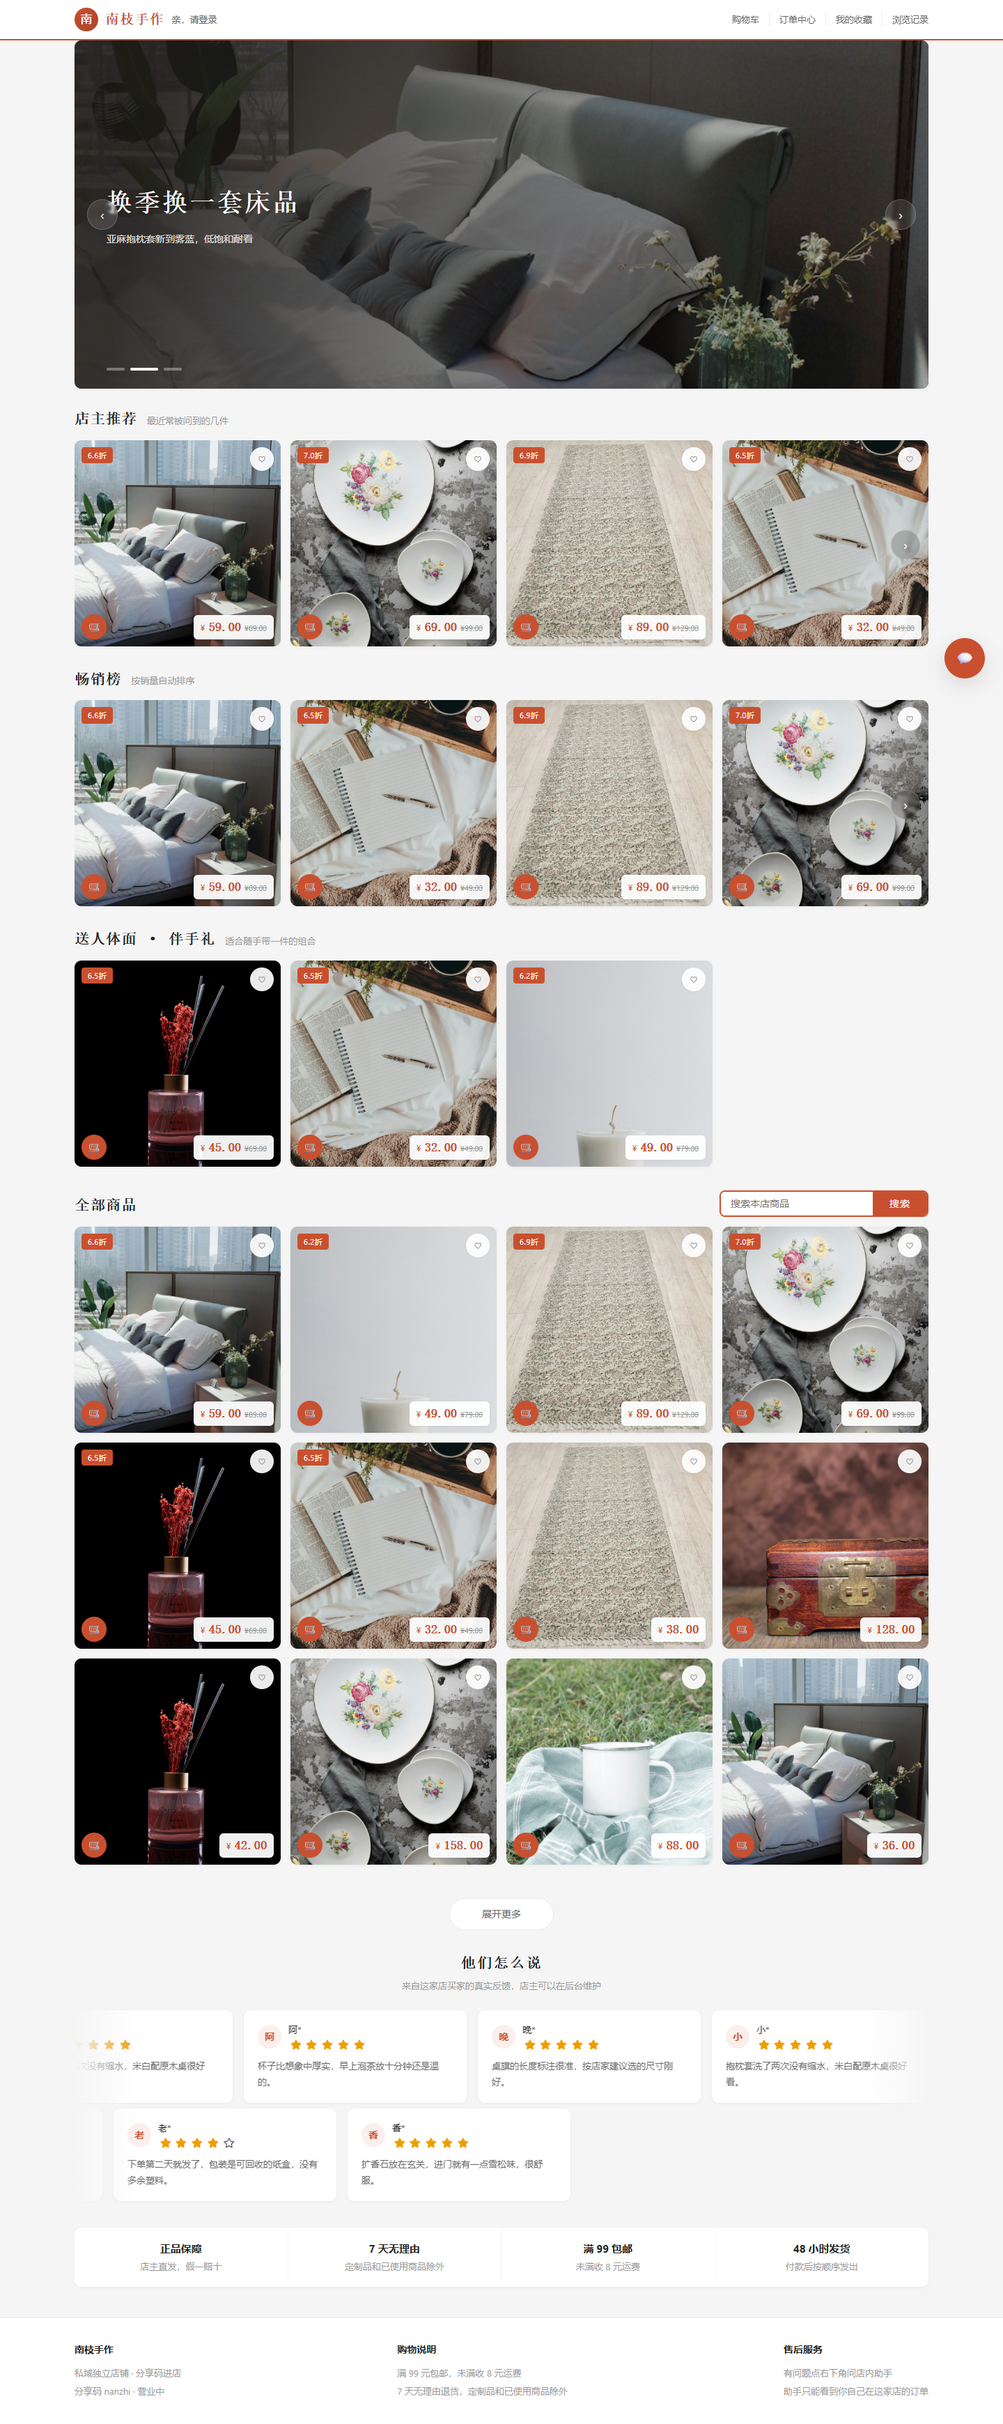
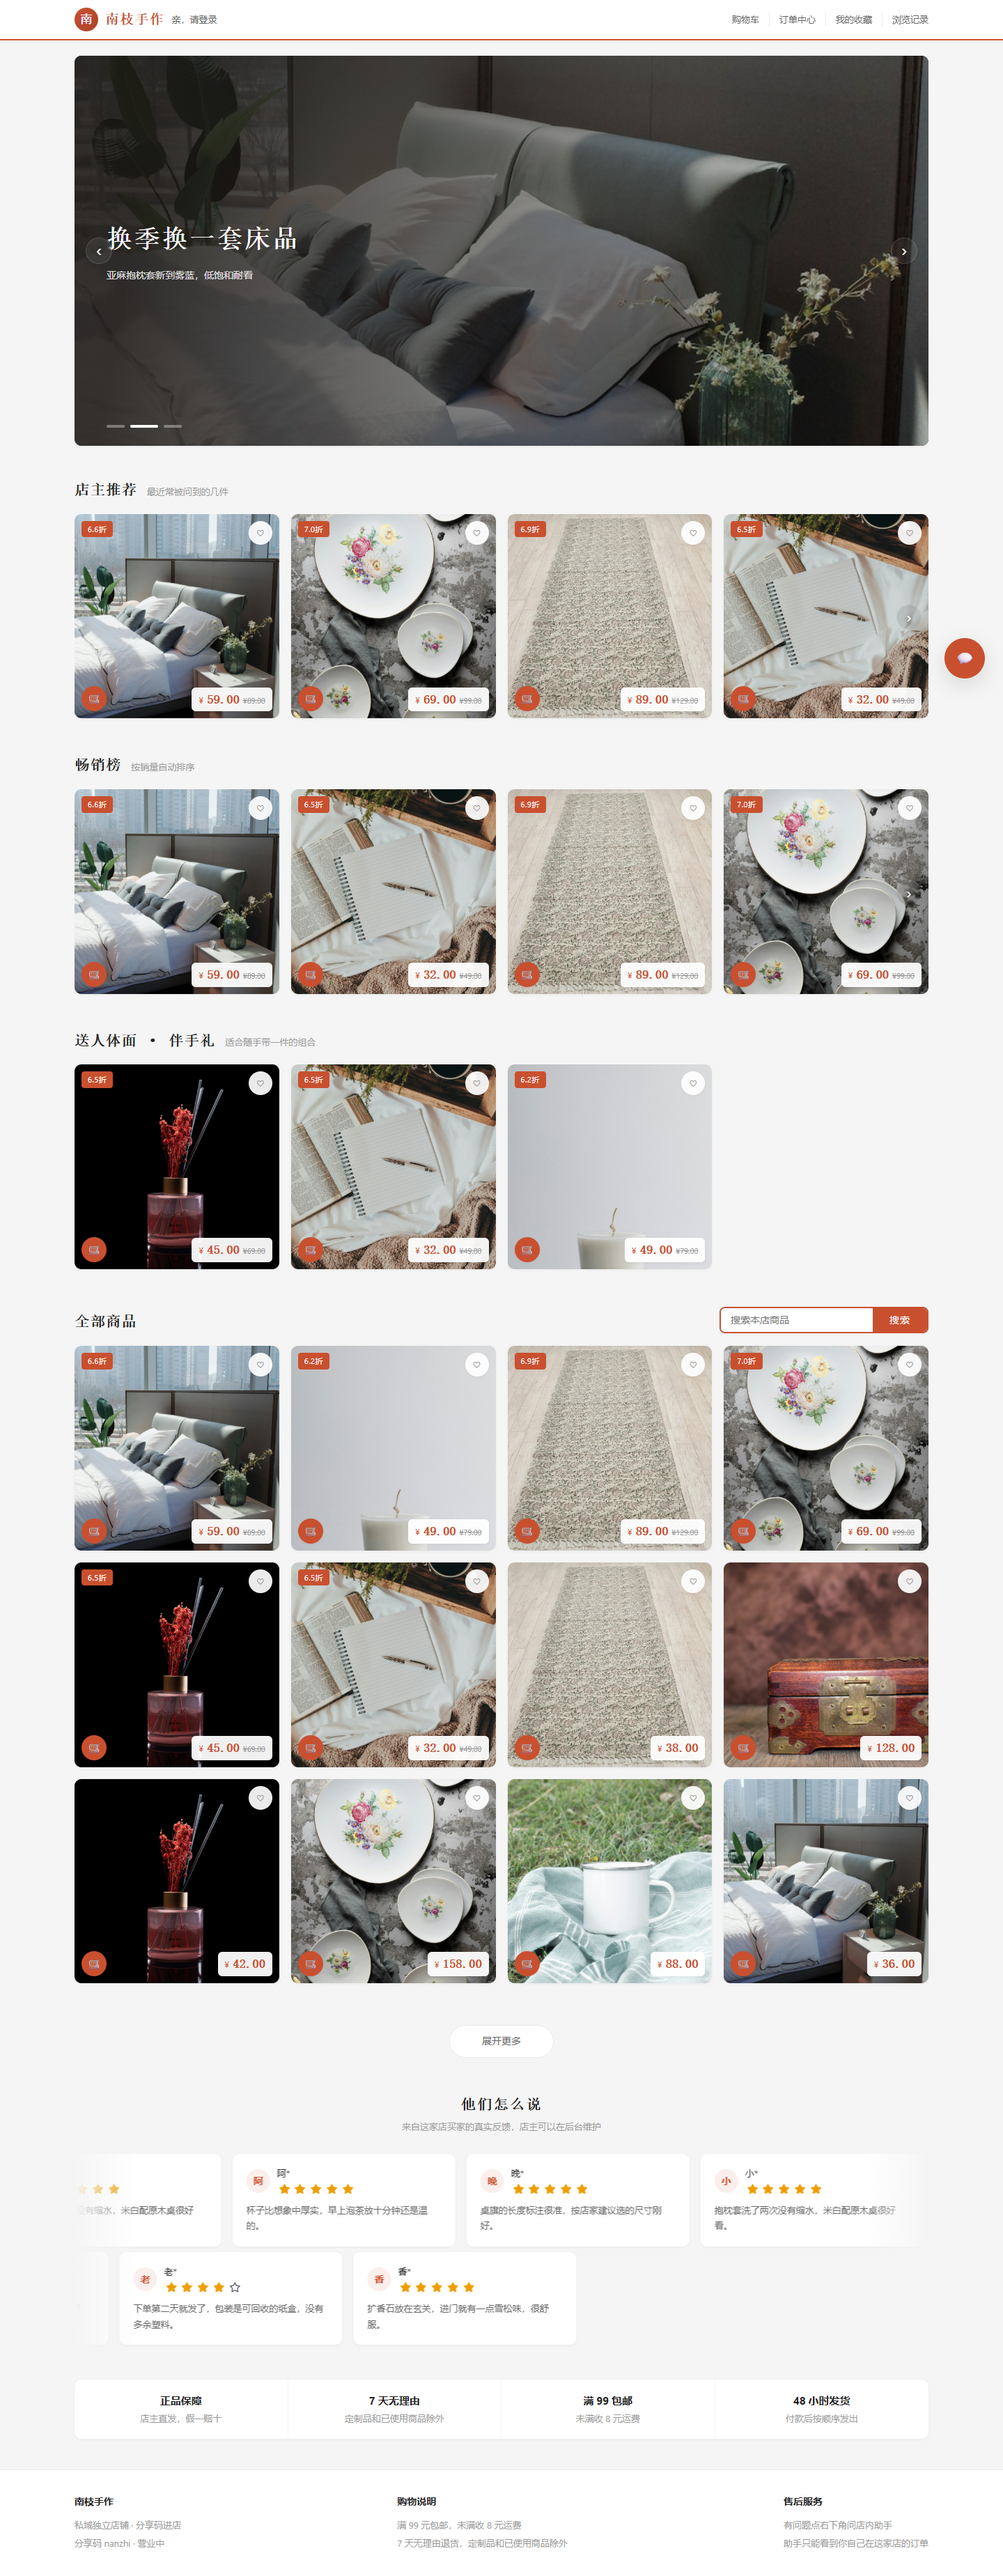
横屏再放大并留上方空白，箭头符号放大、圆钮缩小调透，行间距拉开
轮播 500→560px 并加 22px 上边距；箭头圆钮 44/42→38/36px，符号 20→27/25px，底色不透明度降到 0.07/0.1；栏间距 26→46px，商品格 gap 14→17px。

diff --git a/web/mall.css b/web/mall.css
@@ -146,7 +146,7 @@ p { margin: 0; }
 /* 服务承诺条 */
 .promises {
   display: grid; grid-template-columns: repeat(4, 1fr); background: #fff;
-  border-radius: var(--radius); box-shadow: var(--shadow); margin: 34px 0 0; overflow: hidden;
+  border-radius: var(--radius); box-shadow: var(--shadow); margin: 46px 0 0; overflow: hidden;
 }
 .promises div {
   padding: 18px 16px; text-align: center; border-right: 1px solid var(--line-2);
@@ -180,7 +180,7 @@ p { margin: 0; }
 .sorts button.on { background: var(--primary); border-color: var(--primary); color: #fff; font-weight: 600; }
 
 /* ================= 商品卡 ================= */
-.grid { display: grid; grid-template-columns: repeat(4, 1fr); gap: 14px; padding-bottom: 30px; }
+.grid { display: grid; grid-template-columns: repeat(4, 1fr); gap: 17px; padding-bottom: 36px; }
 /* 商品卡只在图片上叠加信息，不再有下方文字区 */
 .pcard {
   background: #fff; border-radius: var(--radius); overflow: hidden; box-shadow: var(--shadow);
@@ -473,7 +473,7 @@ wa-rating.stars-widget::part(rating) { gap: 1px; }
 /* ================= 首页：轮播主视觉 ================= */
 .hero {
   position: relative; border-radius: var(--radius); overflow: hidden; background: #2a2521;
-  height: 500px; box-shadow: var(--shadow);
+  height: 560px; box-shadow: var(--shadow); margin: 22px 0 0;
 }
 .hero .slide {
   position: absolute; inset: 0; opacity: 0; transition: opacity 0.6s ease;
@@ -492,21 +492,23 @@ wa-rating.stars-widget::part(rating) { gap: 1px; }
 }
 .hero .caption h1 { font-size: 36px; letter-spacing: 3px; font-family: var(--serif); }
 .hero .caption p { color: rgba(255, 255, 255, 0.84); margin-top: 12px; }
+/* 圆钮做小、符号放大，底色很淡，尽量不挡后面的图 */
 .hero .nav {
-  position: absolute; top: 50%; transform: translateY(-50%); width: 44px; height: 44px;
-  border-radius: 50%; border: 1px solid rgba(255, 255, 255, 0.18);
-  background: rgba(255, 255, 255, 0.12); color: rgba(255, 255, 255, 0.9);
-  font-size: 20px; display: grid; place-items: center; backdrop-filter: blur(2px);
-  text-shadow: 0 1px 4px rgba(0, 0, 0, 0.4);
+  position: absolute; top: 50%; transform: translateY(-50%); width: 38px; height: 38px;
+  border-radius: 50%; border: 1px solid rgba(255, 255, 255, 0.12);
+  background: rgba(255, 255, 255, 0.07); color: rgba(255, 255, 255, 0.94);
+  font-size: 27px; line-height: 1; padding-bottom: 4px;
+  display: grid; place-items: center; backdrop-filter: blur(1px);
+  text-shadow: 0 1px 5px rgba(0, 0, 0, 0.55);
   transition: background 0.2s, border-color 0.2s, color 0.2s;
 }
 .hero .nav:hover {
-  background: rgba(255, 255, 255, 0.24);
-  border-color: rgba(255, 255, 255, 0.32);
+  background: rgba(255, 255, 255, 0.16);
+  border-color: rgba(255, 255, 255, 0.22);
   color: #fff;
 }
-.hero .nav.prev { left: 18px; }
-.hero .nav.next { right: 18px; }
+.hero .nav.prev { left: 16px; }
+.hero .nav.next { right: 16px; }
 .hero .dots {
   position: absolute; left: 46px; bottom: 26px; display: flex; gap: 8px;
 }
@@ -517,8 +519,8 @@ wa-rating.stars-widget::part(rating) { gap: 1px; }
 .hero .dots button.on { background: #fff; width: 40px; }
 
 /* ================= 首页：横向商品位 ================= */
-.row-sec { margin-top: 26px; }
-.row-head { display: flex; align-items: flex-end; gap: 14px; margin-bottom: 14px; }
+.row-sec { margin-top: 46px; }
+.row-head { display: flex; align-items: flex-end; gap: 14px; margin-bottom: 18px; }
 .row-head h2 { font-size: 21px; letter-spacing: 1px; font-family: var(--serif); }
 .row-head .sub { color: var(--muted); font-size: 13px; padding-bottom: 3px; }
 .row-head .spacer { flex: 1; }
@@ -526,32 +528,33 @@ wa-rating.stars-widget::part(rating) { gap: 1px; }
 /* 左右箭头浮在图片两侧、垂直居中，和轮播主视觉一致 */
 .rail { position: relative; }
 .rail-nav {
-  position: absolute; top: 50%; transform: translateY(-50%); width: 42px; height: 42px;
-  border-radius: 50%; border: 1px solid rgba(255, 255, 255, 0.16);
-  background: rgba(30, 26, 23, 0.22); color: rgba(255, 255, 255, 0.92);
-  font-size: 20px; display: grid; place-items: center; z-index: 3;
-  backdrop-filter: blur(2px); text-shadow: 0 1px 4px rgba(0, 0, 0, 0.4);
+  position: absolute; top: 50%; transform: translateY(-50%); width: 36px; height: 36px;
+  border-radius: 50%; border: 1px solid rgba(255, 255, 255, 0.12);
+  background: rgba(28, 24, 21, 0.1); color: rgba(255, 255, 255, 0.95);
+  font-size: 25px; line-height: 1; padding-bottom: 4px;
+  display: grid; place-items: center; z-index: 3;
+  backdrop-filter: blur(1px); text-shadow: 0 1px 5px rgba(0, 0, 0, 0.55);
   transition: background 0.2s, border-color 0.2s, opacity 0.2s;
 }
 .rail-nav:hover:not(:disabled) {
-  background: rgba(30, 26, 23, 0.4);
-  border-color: rgba(255, 255, 255, 0.28);
+  background: rgba(28, 24, 21, 0.24);
+  border-color: rgba(255, 255, 255, 0.2);
 }
 .rail-nav:disabled { opacity: 0; pointer-events: none; }
-.rail-nav.prev { left: 12px; }
-.rail-nav.next { right: 12px; }
+.rail-nav.prev { left: 10px; }
+.rail-nav.next { right: 10px; }
 
 .track {
-  display: grid; grid-auto-flow: column; grid-auto-columns: calc((100% - 42px) / 4);
-  gap: 14px; overflow-x: auto; scroll-snap-type: x mandatory;
+  display: grid; grid-auto-flow: column; grid-auto-columns: calc((100% - 51px) / 4);
+  gap: 17px; overflow-x: auto; scroll-snap-type: x mandatory;
   scrollbar-width: none; padding-bottom: 4px;
 }
 .track::-webkit-scrollbar { display: none; }
 .track > * { scroll-snap-align: start; }
 
 /* ================= 首页：全部商品 + 展开 ================= */
-.all-sec { margin-top: 30px; }
-.all-foot { text-align: center; margin: 18px 0 4px; }
+.all-sec { margin-top: 50px; }
+.all-foot { text-align: center; margin: 24px 0 4px; }
 .expand {
   border: 1px solid var(--line); background: #fff; border-radius: 24px;
   padding: 11px 46px; font-size: 14px; color: var(--ink-2); transition: all 0.18s;
@@ -560,8 +563,8 @@ wa-rating.stars-widget::part(rating) { gap: 1px; }
 .expand[disabled] { opacity: 0.5; cursor: default; }
 
 /* ================= 首页：用户评价流动 ================= */
-.wall { margin-top: 30px; overflow: hidden; }
-.wall-head { text-align: center; margin-bottom: 20px; }
+.wall { margin-top: 50px; overflow: hidden; }
+.wall-head { text-align: center; margin-bottom: 24px; }
 .wall-head h2 { font-size: 21px; letter-spacing: 2px; font-family: var(--serif); }
 .wall-head p { color: var(--muted); font-size: 13px; margin-top: 6px; }
 .marquee { position: relative; overflow: hidden; padding: 4px 0; }
@@ -925,7 +928,7 @@ wa-dialog .field input:focus { border-color: var(--primary); }
   .cat-side h3 { display: none; }
   .cat-side button { width: auto; white-space: nowrap; border-left: 0; border-bottom: 3px solid transparent; }
   .cat-side button.on { border-left: 0; border-bottom-color: var(--primary); }
-  .track { grid-auto-columns: calc((100% - 28px) / 3); }
+  .track { grid-auto-columns: calc((100% - 34px) / 3); }
 }
 @media (max-width: 900px) {
   .detail, .checkout { grid-template-columns: 1fr; }
@@ -936,10 +939,11 @@ wa-dialog .field input:focus { border-color: var(--primary); }
   .side .side-brand, .side .side-user { display: none; }
   .side a, .side button.side-item { width: auto; white-space: nowrap; border-left: 0; border-bottom: 3px solid transparent; }
   .side a.on { border-left: 0; border-bottom-color: var(--primary); }
-  .hero { height: 380px; }
+  .hero { height: 420px; }
   .hero .caption { left: 26px; right: 26px; max-width: none; }
   .hero .caption h1 { font-size: 27px; }
   .hero .dots { left: 26px; }
+  .row-sec, .all-sec, .wall, .promises { margin-top: 36px; }
 }
 @media (max-width: 720px) {
   .grid { grid-template-columns: repeat(2, 1fr); }
@@ -955,12 +959,14 @@ wa-dialog .field input:focus { border-color: var(--primary); }
   .gallery .thumbs { flex-direction: row; }
   .chat { right: 12px; left: 12px; bottom: 12px; width: auto; }
   .footer .wrap { flex-direction: column; }
-  .hero { height: 280px; }
+  .hero { height: 300px; }
   .hero .caption h1 { font-size: 22px; letter-spacing: 1px; }
   .hero .caption p { font-size: 13px; }
-  .hero .nav { width: 36px; height: 36px; font-size: 16px; }
-  .track { grid-auto-columns: calc((100% - 14px) / 2); }
+  .hero .nav { width: 32px; height: 32px; font-size: 22px; }
+  .rail-nav { width: 30px; height: 30px; font-size: 21px; }
+  .track { grid-auto-columns: calc((100% - 17px) / 2); }
   .row-head h2 { font-size: 18px; }
+  .row-sec, .all-sec, .wall, .promises { margin-top: 30px; }
   .quote { width: 260px; }
   /* 购买按钮在窄屏排不下，让它们换行并平分宽度 */
   .actions button { flex: 1 1 46%; }

diff --git a/README.md b/README.md
@@ -13,11 +13,11 @@
 
 首页从上到下：轮播主视觉 → 店主推荐 → 畅销榜 → 自定义栏目 → 全部商品 → 用户评价 → 售后保障。
 
-**轮播主视觉**：横屏大图，宽度和下面的商品行一致，高度 500px。点图直接进对应的商品详情，左右箭头浮在图片两侧、垂直居中，也能点下面的小横条或等它自动走。
+**轮播主视觉**：横屏大图，宽度和下面的商品行一致，高度 560px，上方留了 22px 空白。点图直接进对应的商品详情，左右箭头浮在图片两侧、垂直居中（圆钮 38px、符号 27px、底色只有 7% 不透明度），也能点下面的小横条或等它自动走。
 
 ![轮播第二张](docs/screenshots/buyer-hero-2.png)
 
-**商品栏目**：一行四个，左右箭头同样浮在图片两侧、垂直居中，一次往前翻一张，到头箭头会淡出。推荐位和畅销榜都是这个形式，最多各放 6 件。
+**商品栏目**：一行四个，栏间距 46px，左右箭头同样浮在图片两侧、垂直居中，一次往前翻一张，到头箭头会淡出。推荐位和畅销榜都是这个形式，最多各放 6 件。
 
 **商品卡**：只展示图片，不再有下方的名称、评分和销量。折扣角标在左上、收藏心在右上、最低价在右下、小购物车在左下。鼠标移到图片上时，名称会从顶部浮出来。
 
